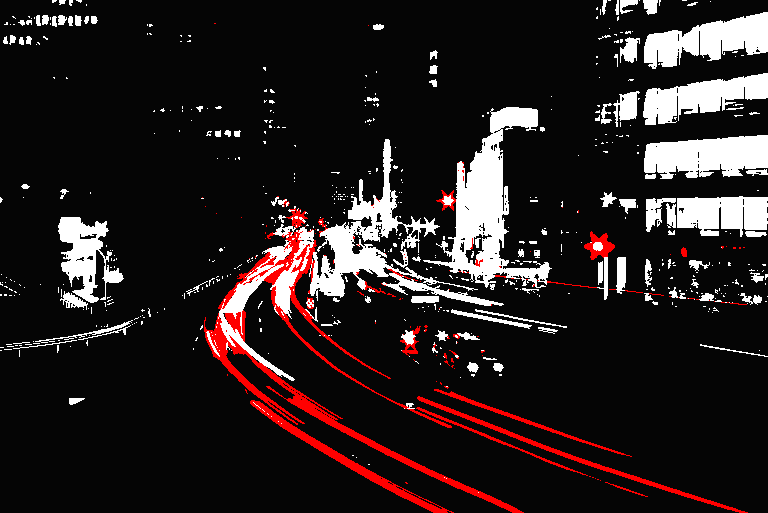
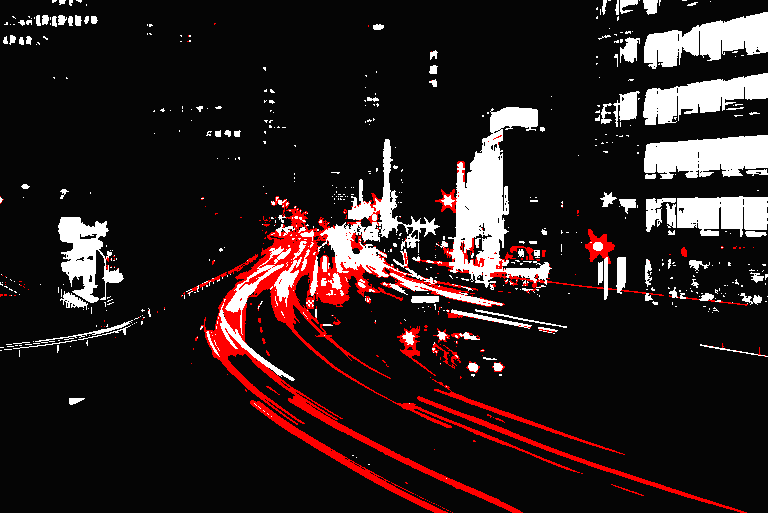
Use cie94 delta e for kmeans and dithering (#12)
We should have better results and more appropriate colors.
Also implements cie 2000, but it's really slow, and the improvement is debatable.

diff --git a/core/src/shader_tests.rs b/core/src/shader_tests.rs
@@ -1,0 +1,199 @@
+use std::{borrow::Cow, sync::mpsc::channel};
+
+use palette::{IntoColor, Lab, Srgb};
+use pollster::FutureExt;
+use wgpu::{
+    util::{self, DeviceExt},
+    Backends, BindGroupDescriptor, BindGroupEntry, BufferDescriptor, BufferUsages,
+    CommandEncoderDescriptor, ComputePipelineDescriptor, Device, DeviceDescriptor, Instance,
+    MaintainBase, MapMode, Queue, ShaderSource,
+};
+
+use crate::modules::include_shader;
+
+struct TestingContext {
+    device: Device,
+    queue: Queue,
+}
+
+trait ToLab {
+    fn to_lab(self) -> [f32; 3];
+}
+
+impl ToLab for [u8; 3] {
+    fn to_lab(self) -> [f32; 3] {
+        let lab: Lab = Srgb::new(self[0], self[1], self[2])
+            .into_format()
+            .into_color();
+        [lab.l, lab.a, lab.b]
+    }
+}
+
+fn vec3x2_as_input_f32_as_output(
+    shader_string: Cow<str>,
+    entry_point: &str,
+    a: [f32; 3],
+    b: [f32; 3],
+) -> f32 {
+    run_wgpu_test(|context| {
+        let shader_module = context
+            .device
+            .create_shader_module(wgpu::ShaderModuleDescriptor {
+                label: None,
+                source: ShaderSource::Wgsl(shader_string),
+            });
+
+        let mut input_data: Vec<u8> = vec![];
+        input_data.extend_from_slice(bytemuck::cast_slice(&a));
+        input_data.extend_from_slice(&[0, 0, 0, 0]);
+        input_data.extend_from_slice(bytemuck::cast_slice(&b));
+        input_data.extend_from_slice(&[0, 0, 0, 0]);
+
+        let input_buffer = context
+            .device
+            .create_buffer_init(&util::BufferInitDescriptor {
+                label: None,
+                contents: &input_data,
+                usage: BufferUsages::UNIFORM,
+            });
+        let output_buffer = context.device.create_buffer(&BufferDescriptor {
+            label: None,
+            size: 4,
+            usage: BufferUsages::STORAGE | BufferUsages::COPY_SRC,
+            mapped_at_creation: false,
+        });
+        let stating_buffer = context.device.create_buffer(&BufferDescriptor {
+            label: None,
+            size: 4,
+            usage: BufferUsages::MAP_READ | BufferUsages::COPY_DST,
+            mapped_at_creation: false,
+        });
+
+        let compute_pipeline = context
+            .device
+            .create_compute_pipeline(&ComputePipelineDescriptor {
+                label: None,
+                layout: None,
+                module: &shader_module,
+                entry_point,
+            });
+
+        let bind_group_layout = compute_pipeline.get_bind_group_layout(0);
+        let bind_group = context.device.create_bind_group(&BindGroupDescriptor {
+            label: None,
+            layout: &bind_group_layout,
+            entries: &[
+                BindGroupEntry {
+                    binding: 0,
+                    resource: input_buffer.as_entire_binding(),
+                },
+                BindGroupEntry {
+                    binding: 1,
+                    resource: output_buffer.as_entire_binding(),
+                },
+            ],
+        });
+
+        let mut encoder = context
+            .device
+            .create_command_encoder(&CommandEncoderDescriptor { label: None });
+        {
+            let mut cpass =
+                encoder.begin_compute_pass(&wgpu::ComputePassDescriptor { label: None });
+            cpass.set_pipeline(&compute_pipeline);
+            cpass.set_bind_group(0, &bind_group, &[]);
+            cpass.insert_debug_marker("Compute cie94");
+            cpass.dispatch_workgroups(1, 1, 1);
+        }
+
+        encoder.copy_buffer_to_buffer(&output_buffer, 0, &stating_buffer, 0, 4);
+        context.queue.submit(Some(encoder.finish()));
+
+        let buffer_slice = stating_buffer.slice(..);
+        let (sender, receiver) = channel();
+        buffer_slice.map_async(MapMode::Read, move |v| sender.send(v).unwrap());
+
+        context.device.poll(MaintainBase::Wait);
+
+        if let Ok(_) = receiver.recv() {
+            let data = buffer_slice.get_mapped_range();
+            let result: f32 = bytemuck::cast_slice(&data)[0];
+
+            drop(data);
+            stating_buffer.unmap();
+
+            result
+        } else {
+            panic!("Failed to compute cie94 on gpu!")
+        }
+    })
+}
+
+fn run_wgpu_test<T>(test_function: impl FnOnce(TestingContext) -> T) -> T {
+    let backend_bits = util::backend_bits_from_env().unwrap_or_else(Backends::all);
+    let instance = Instance::new(backend_bits);
+    let adapter = pollster::block_on(util::initialize_adapter_from_env_or_default(
+        &instance,
+        backend_bits,
+        None,
+    ))
+    .expect("could not find suitable adapter on the system");
+
+    let features = adapter.features();
+    let limits = adapter.limits();
+
+    let (device, queue) = adapter
+        .request_device(
+            &DeviceDescriptor {
+                label: None,
+                features,
+                limits,
+            },
+            None,
+        )
+        .block_on()
+        .expect("Couldn't create device");
+
+    let context = TestingContext { device, queue };
+
+    test_function(context)
+}
+
+#[test]
+fn test_delta_e_cie94() {
+    fn delta_e_cie94(a: [f32; 3], b: [f32; 3]) -> f32 {
+        vec3x2_as_input_f32_as_output(
+            include_shader!("shaders/tests/test_distance.wgsl").into(),
+            "run_distance_cie94",
+            a,
+            b,
+        )
+    }
+
+    let delta_e = delta_e_cie94([255, 0, 0].to_lab(), [255, 128, 0].to_lab());
+
+    assert!((delta_e - 19.094658).abs() < 0.01);
+}
+
+#[test]
+fn test_delta_e_cie2000() {
+    fn delta_e_cie2000(a: [f32; 3], b: [f32; 3]) -> f32 {
+        vec3x2_as_input_f32_as_output(
+            include_shader!("shaders/tests/test_distance.wgsl").into(),
+            "run_distance_cie2000",
+            a,
+            b,
+        )
+    }
+
+    let lab1 = [50.0000, 2.6772, -79.7751];
+    let lab2 = [50.0000, 0.0000, -82.7485];
+
+    let delta_e_0 = delta_e_cie2000(lab1, lab2);
+
+    assert!((delta_e_0 - 2.0424595).abs() < 0.01);
+
+    let delta_e_1 = delta_e_cie2000([255, 0, 0].to_lab(), [255, 128, 0].to_lab());
+
+    assert!((delta_e_1 - 21.164806).abs() < 0.01);
+}

diff --git a/preprocessor/src/lib.rs b/preprocessor/src/lib.rs
@@ -56,8 +56,6 @@ impl PreProcessor {
 
         fs::write(&into, &content)?;
 
-        println!("Processed {file}", file = path_diff.to_string_lossy());
-
         Ok(into)
     }
 
@@ -110,7 +108,7 @@ pub fn preprocess_shaders(shaders: &Path, out_dir: &Path) -> anyhow::Result<Vec<
 fn list_files(folder: &Path) -> anyhow::Result<Vec<PathBuf>> {
     fn recursive_list_files(folder: &Path, into: &mut Vec<PathBuf>) -> anyhow::Result<()> {
         if folder.is_dir() {
-            let paths = fs::read_dir(&folder)?;
+            let paths = fs::read_dir(folder)?;
 
             for read in paths {
                 let path = read?.path();

diff --git a/cli/src/args.rs b/cli/src/args.rs
@@ -194,7 +194,7 @@ fn validate_palette(s: &str) -> Result<Palette> {
 }
 
 fn parse_palette(path: &PathBuf) -> Result<Palette> {
-    let image = image::open(&path)?.to_rgba8();
+    let image = image::open(path)?.to_rgba8();
     let (width, height) = image.dimensions();
     let pixel_count = width as usize * height as usize;
 

diff --git a/core/src/structures.rs b/core/src/structures.rs
@@ -18,7 +18,7 @@ use crate::{
     ColorSpace,
 };
 
-const MAX_IMAGE_DIMENSION: u32 = 512;
+const MAX_IMAGE_DIMENSION: u32 = 256;
 
 pub(crate) struct InputTexture {
     pub texture: Texture,

diff --git a/core/src/lib.rs b/core/src/lib.rs
@@ -11,6 +11,8 @@ use wgpu::{
 mod modules;
 mod octree;
 mod operations;
+#[cfg(test)]
+mod shader_tests;
 mod structures;
 mod utils;
 
